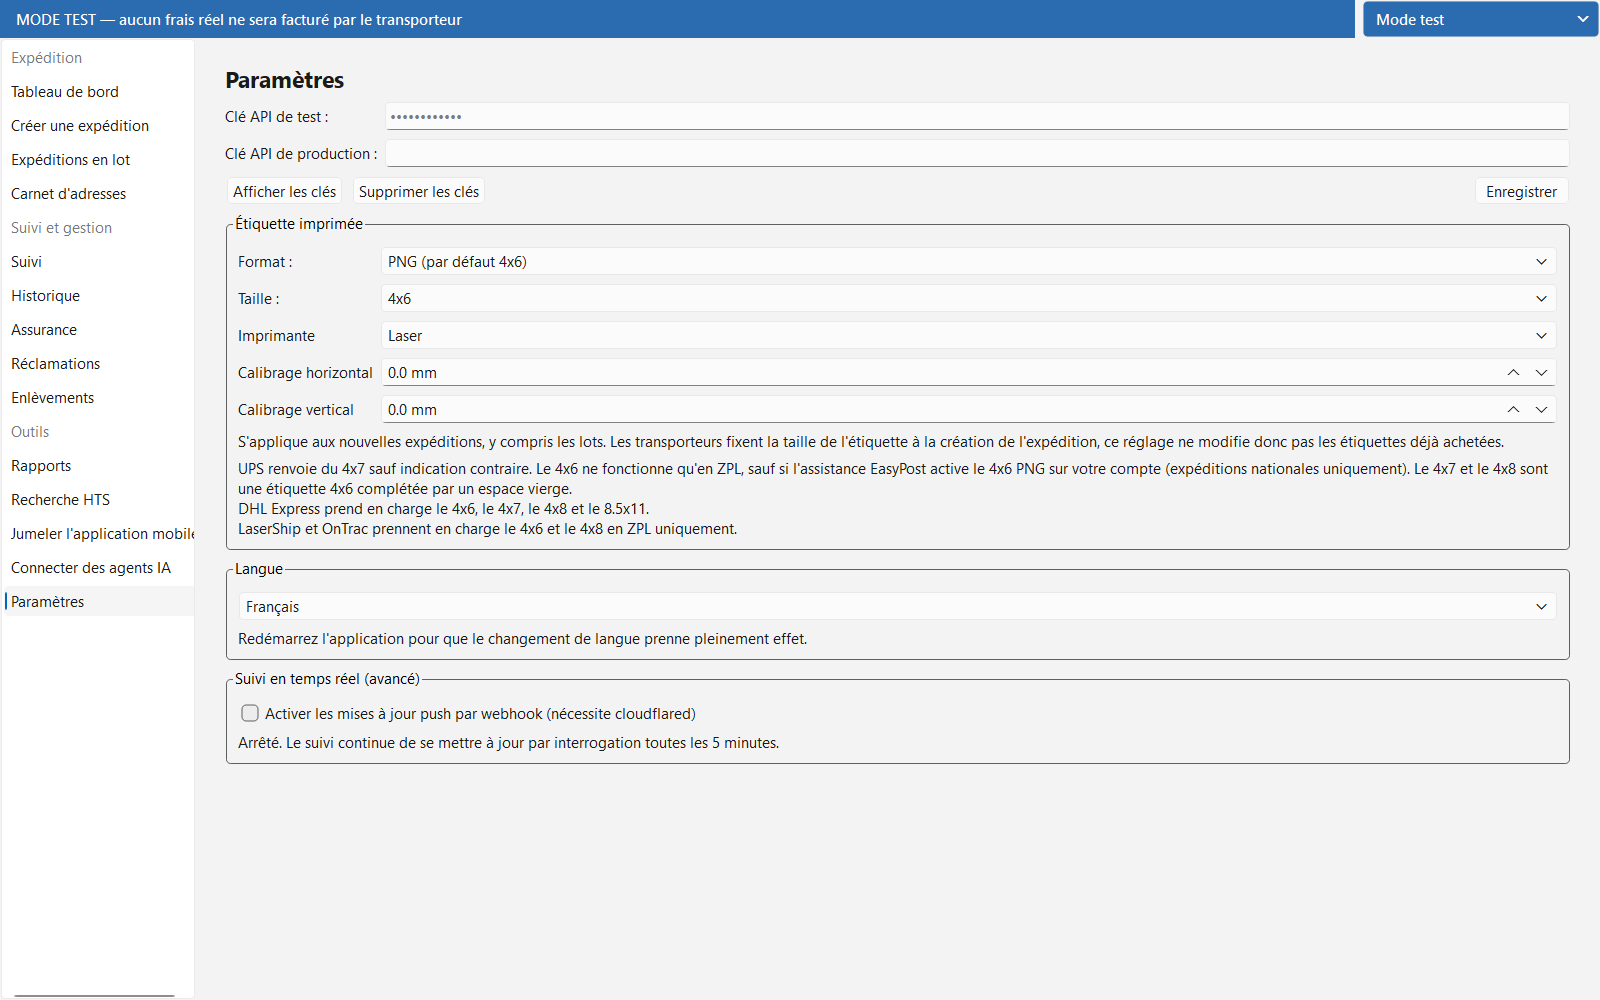
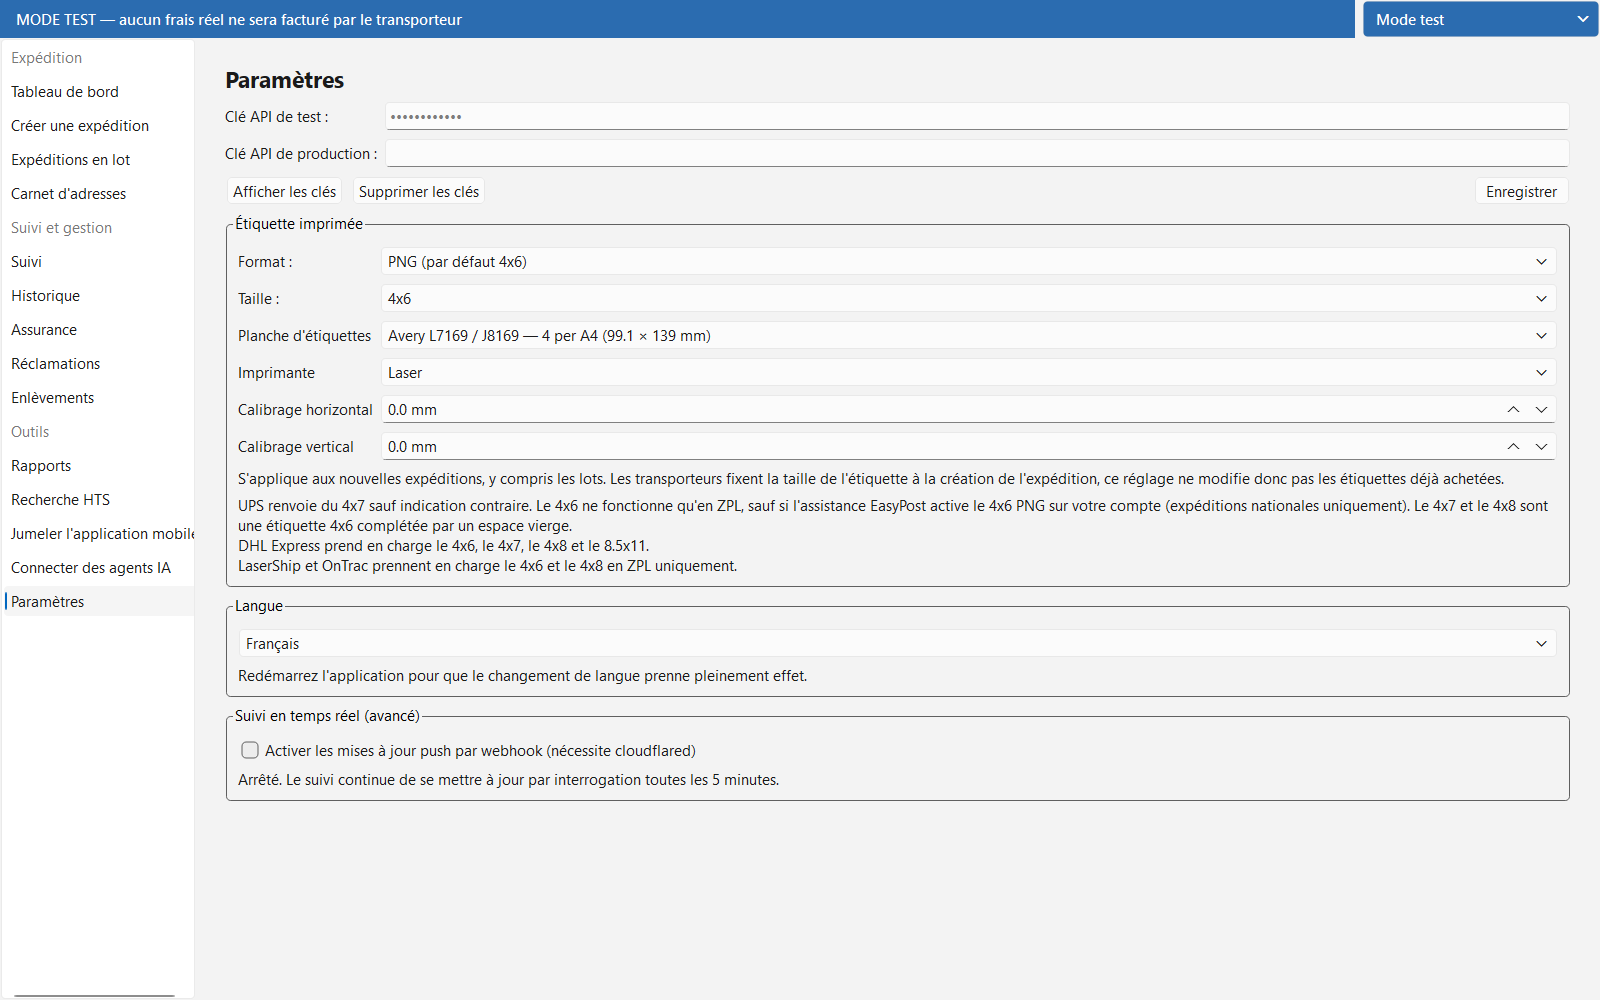
Store: 1.2.2 screenshots, and the master release-note copy
Two of the nine listing screenshots changed materially in this version, so the
set is regenerated rather than carried over: the Batch page gained a Get Rates
button in Preview & validate, and Settings gained the label sheet dropdown
between the label size and the printer. 28 files differ; the rest are
byte-identical, which is the generator's determinism holding.

Checked per image again — 77 sources, all 1600x1000, no missing glyphs — and by
eye on the two pages that changed.

The customs block is absent from the batch capture and that is correct rather
than a miss: it appears only once an international row is loaded, and the
harness seeds domestic data. The screenshot shows what a domestic batch looks
like, which is what the rest of that image shows too.

Release-note master is 1431 characters against the 1500 cap. A seven-bullet
draft came to 1496 — inside the cap but too tight to edit and a wall to read —
so two bullets were merged rather than shaved word by word.

Changed region(s): [[0.125, 0.372, 0.9688, 0.806], [0.1562, 0.31, 0.4375, 0.341]]

diff --git a/store_assets/RELEASE-NOTES-1.2.2.md b/store_assets/RELEASE-NOTES-1.2.2.md
@@ -1,0 +1,79 @@
+# Easy-Post Desktop — release notes 1.2.2
+
+Master English ("what's new") copy for the version 1.2.2 store listings. House
+style: no Oxford commas, no abbreviations, no pronouns, British spelling.
+
+Applies to the Microsoft Store listing (ReleaseNotes field) and, reworded per
+platform limits, the App Store "What's New".
+
+Version 1.2.2 is about one failure and everything it exposed. An international
+batch could be imported, validated as complete, created against a live account,
+and then fail every label at purchase — with the carrier asking for "at least
+one item per package" and never once saying the word customs. A batch cannot be
+amended before purchase, so there was no way forward but to start again.
+
+Written for a shipper, not a developer.
+
+## en-US ReleaseNotes
+
+The Microsoft Store ReleaseNotes field caps at **1500 characters**, and every
+translation has to fit the same cap. The copy below is 1431, leaving 69 of
+headroom. A seven-bullet draft came to 1496 — inside the cap but too tight to
+edit, and a wall of text to read — so two bullets were merged rather than
+trimmed word by word. Check the count before editing.
+
+• International batch shipments now carry a customs declaration. A batch sent abroad used to be created and then fail every label at purchase, with the carrier asking for "at least one item per package" without ever saying customs. The recipient template gains columns for the item description, value, quantity, tariff code and origin country, and the Batch page asks once for the contents type, the signer and what happens to an undeliverable parcel.
+
+• Rows crossing a border are checked before the batch exists, so anything missing appears in the preview while it can still be fixed. Declared values are stated in the sender's own currency, so twelve pounds is declared as pounds rather than dollars.
+
+• Get Rates prices one parcel from the import and narrows the carrier and service lists to what the route really supports, each with its price alongside. Choosing a batch service was previously done blind, against a catalogue of hundreds.
+
+• Country codes are checked, and offered as a dropdown in the workbook. "UK" is not one, and typing it produced a row that looked international when it was not.
+
+• The label sheet is chosen in Settings now, beside the label format and the printer, instead of only inside a dialog that opens after a label has been bought. Choosing a sheet sets the format to PNG, since a sheet is built from label images.
+
+• Live tracking updates no longer drop the connection when a request is refused.
+
+## Translations
+
+All 47 listing languages are in `release-notes-1.2.2-translations.json`, which is
+the file `build_listing_import.py` reads by default.
+
+Each translation names the **Get Rates** button with the exact string the app
+shows in that language, taken from `app/resources/locales/`, so the note and the
+interface agree rather than offering the reader two names for the same button.
+
+## Screenshots
+
+The batch and settings screenshots both change in this version — the Batch page
+gains a customs block and a Get Rates button, and Settings gains the label sheet
+dropdown. Both are in the listing, so the store screenshots are regenerated for
+1.2.2 rather than carried over.
+
+The customs block only appears once an international row is loaded, and the
+screenshot harness seeds domestic data, so it is absent from the capture. That
+is accurate rather than a miss: it is what the page looks like for a domestic
+batch, which is what the rest of that screenshot shows.
+
+## What 1.2.2 contains, for anyone checking the notes against the code
+
+All since the v1.2.1 tag:
+
+| Commit | |
+|---|---|
+| `558de2f` | customs declarations on international batches |
+| `051a8ee` | rate one row to narrow the carrier and service list |
+| `2599da2` | country-code validation and workbook dropdowns |
+| `ab046f8` | label sheet on the Settings page, and the PNG requirement |
+| `4a6e9db` | webhook receiver answers refused requests instead of resetting |
+| `e6f73f2` | .gitignore covers the signing-key types actually in use (no user-facing change) |
+
+`4a6e9db` was fixed after v1.2.1 was tagged, so it has never shipped in a
+release — it belongs in these notes even though it predates the version bump.
+
+## Sequencing
+
+The same rule as 1.2.1: Partner Center ships listing changes and packages in the
+*same* submission, so these notes go up alongside the 1.2.2 package, not before
+it. Publishing them against the 1.2.1 build would describe fixes nobody could
+download yet.
